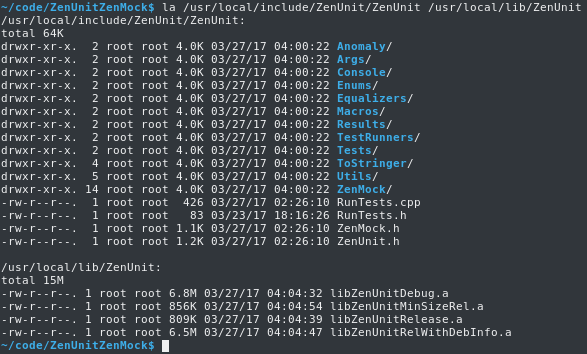
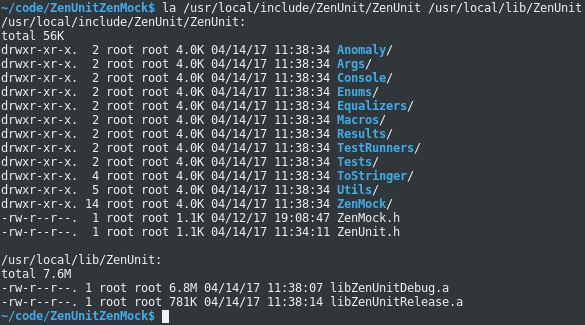
Upgrade Linux build and install process

Changed region(s): [[0.0, 0.0, 1.0, 1.0]]

diff --git a/ZenUnit/ZenUnit.h b/ZenUnit/ZenUnit.h
@@ -24,4 +24,4 @@
 #include "ZenUnit/Macros/VECTORS_EQUAL.h"
 #include "ZenUnit/Macros/WAS_ARRAY_NEWED.h"
 #include "ZenUnit/Macros/WAS_NEWED.h"
-#include "ZenUnit/RunTests.h"
+#include "ZenUnit/TestRunners/RunTests.h"

diff --git a/ZenUnit/TestRunners/RunTests.cpp b/ZenUnit/TestRunners/RunTests.cpp
@@ -1,5 +1,5 @@
 #include "pch.h"
-#include "RunTests.h"
+#include "ZenUnit/TestRunners/RunTests.h"
 #include "ZenUnit/TestRunners/TestRunner.h"
 #include "ZenUnit/Utils/Vector.h"
 

diff --git a/README.md b/README.md
@@ -106,7 +106,7 @@ int main(int argc, char* argv[]
 
 Step 1 of 1:
 
-Run `./LinuxCMakeBuildInstall.sh <InstallDirectory>` to CMake with Ninja, build with the default C++ compiler, and install with Linux the ZenUnit include tree and Debug, Release, RelWithDebInfo, and MinSizeRel static libraries.
+Run `./LinuxCMakeBuildInstall.sh <InstallDirectory>` to CMake with Ninja, build with the default C++ compiler, and install with Linux the ZenUnit include tree and Debug and Release static libraries.
 
 `LinuxCMakeBuildInstall.sh` performs these CMake, build, and install actions:
 
@@ -135,8 +135,6 @@ function cmake_build_install
 cmakeInstallPrefix="$1"
 cmake_build_install Debug "$cmakeInstallPrefix"
 cmake_build_install Release "$cmakeInstallPrefix"
-cmake_build_install RelWithDebInfo "$cmakeInstallPrefix"
-cmake_build_install MinSizeRel "$cmakeInstallPrefix"
 ```
 
 To build ZenUnit with Clang instead of the default C++ compiler (usually GCC), prepend CXX=<clang++Path>.
@@ -153,12 +151,6 @@ Abridged output from running `sudo CXX=/usr/bin/clang++ ./LinuxCMakeBuildInstall
 <...CMake Output...>
 <...Build Output...>
 -- Installing: /usr/local/lib/ZenUnit/libZenUnitRelease.a
-<...CMake Output...>
-<...Build Output...>
--- Installing: /usr/local/lib/ZenUnit/libZenUnitRelWithDebInfo.a
-<...CMake Output...>
-<...Build Output...>
--- Installing: /usr/local/lib/ZenUnit/libZenUnitMinSizeRel.a
 ~/code/ZenUnitAndZenMock$
 ```
 
@@ -170,7 +162,7 @@ ZenUnit installed on Linux:
 
 Step 1 of 1: 
 
-Run with PowerShell `WindowsCMakeBuildInstall.ps1 <InstallDirectory>` to CMake with Visual Studio 14 2015 Win64, build with MSBuild, and install with Windows the ZenUnit include tree and Debug, Release, RelWithDebInfo, and MinSizeRel static libraries and .pdb files.
+Run with PowerShell `WindowsCMakeBuildInstall.ps1 <InstallDirectory>` to CMake with Visual Studio 14 2015 Win64, build with MSBuild, and install with Windows the ZenUnit include tree and Debug and Release static libraries and .pdb files.
 
 `WindowsCMakeBuildInstall.ps1` performs these CMake, build, and install actions:
 
@@ -186,10 +178,6 @@ cmake --build . --target ZenUnit --config Debug
 cmake --build . --target install --config Debug
 cmake --build . --target ZenUnit --config Release
 cmake --build . --target install --config Release
-cmake --build . --target ZenUnit --config RelWithDebInfo
-cmake --build . --target install --config RelWithDebInfo
-cmake --build . --target ZenUnit --config MinSizeRel
-cmake --build . --target install --config MinSizeRel
 ```
 
 Abridged output from running `powershell -file WindowsCMakeBuildInstall.ps1 C:/install` from a Git Bash prompt:
@@ -205,12 +193,6 @@ Abridged output from running `powershell -file WindowsCMakeBuildInstall.ps1 C:/i
   -- Installing: C:/install/lib/ZenUnit/ZenUnitDebug.pdb
 <...Build Output...>
   -- Installing: C:/install/lib/ZenUnit/ZenUnitRelease.lib
-<...Build Output...>
-  -- Installing: C:/install/lib/ZenUnit/ZenUnitRelWithDebInfo.lib
-  -- Installing: C:/install/lib/ZenUnit/ZenUnitRelWithDebInfo.pdb
-<...Build Output...>
-  -- Installing: C:/install/lib/ZenUnit/ZenUnitMinSizeRel.lib
-<...Build Output...>
 Build succeeded.
 ```
 
@@ -218,7 +200,7 @@ ZenUnit installed on Windows:
 
 ![ZenUnit Installed On Windows](Screenshots/ZenUnitInstalledOnWindows.png "ZenUnit Installed On Windows")
 
-Editor's note: ZenUnit and ZenMock as header-only would of course be much more convenient than the current building and linking against static libraries, which is why ZenUnit and ZenMock will be made header-only following further laying down of their foundations.
+Editor's note: ZenUnit and ZenMock as header-only would of course be much more convenient than the current building and linking against a static library, which is why ZenUnit and ZenMock will be made header-only following further laying down of their foundations.
 
 Test Matrix
 -----------
@@ -238,7 +220,7 @@ Test Matrix road map: Travis CI Linux and macOS, AppVeyor, and Visual Studio 201
 
 |Version|Date|Features|
 |-------|----|--------|
-|0.2.0|Approaching|Travis CI, AppVeyor, inlined as well as the current at-the-end test results, and colorized test results|
+|0.2.0|Approaching|Travis CI, AppVeyor, inlined as well as at-the-end test results, and colorized test results|
 |0.1.1|February 14, 2017|Fixes, refactorings, design improvements|
 |0.1.0|January 1, 2017|Launch|
 

diff --git a/Docs/ZenUnit.md b/Docs/ZenUnit.md
@@ -85,7 +85,7 @@
 
 ### Type-Parameterized Test Classes
 
-If your code-under-test is templatized, ZenUnit provides macros TEMPLATETESTS and RUNTEMPLATE for writing type-parameterized test classes to test various template arguments.
+If your code-under-test is templated, ZenUnit provides macros TEMPLATETESTS and RUNTEMPLATE for writing type-parameterized test classes to test various template arguments.
 
 Here is how the correctness of a function that returns whether a generic set contains an element can be confirmed using TEMPLATETESTS and RUNTEMPLATE:
 

diff --git a/Docs/ZenMock.md b/Docs/ZenMock.md
@@ -228,7 +228,7 @@ int main(int argc, char* argv[])
 |`FunctionMock.ExpectAndReturn(returnValue)`|
 |`FunctionMock.ExpectAndReturnValues(returnValues...)`|
 |`FunctionMock.ExpectAndReturnValues(const vector<T>& returnValues)`|
-|`FunctionMock.ExpectAndThrow\<ExceptionTypes\>(ExceptionArgs&&...)`|
+|`FunctionMock.ExpectAndThrow<ExceptionTypes>(ExceptionArgs&&...)`|
 
 |ZenMock Object Assertion Functions|
 |---------------------------|
